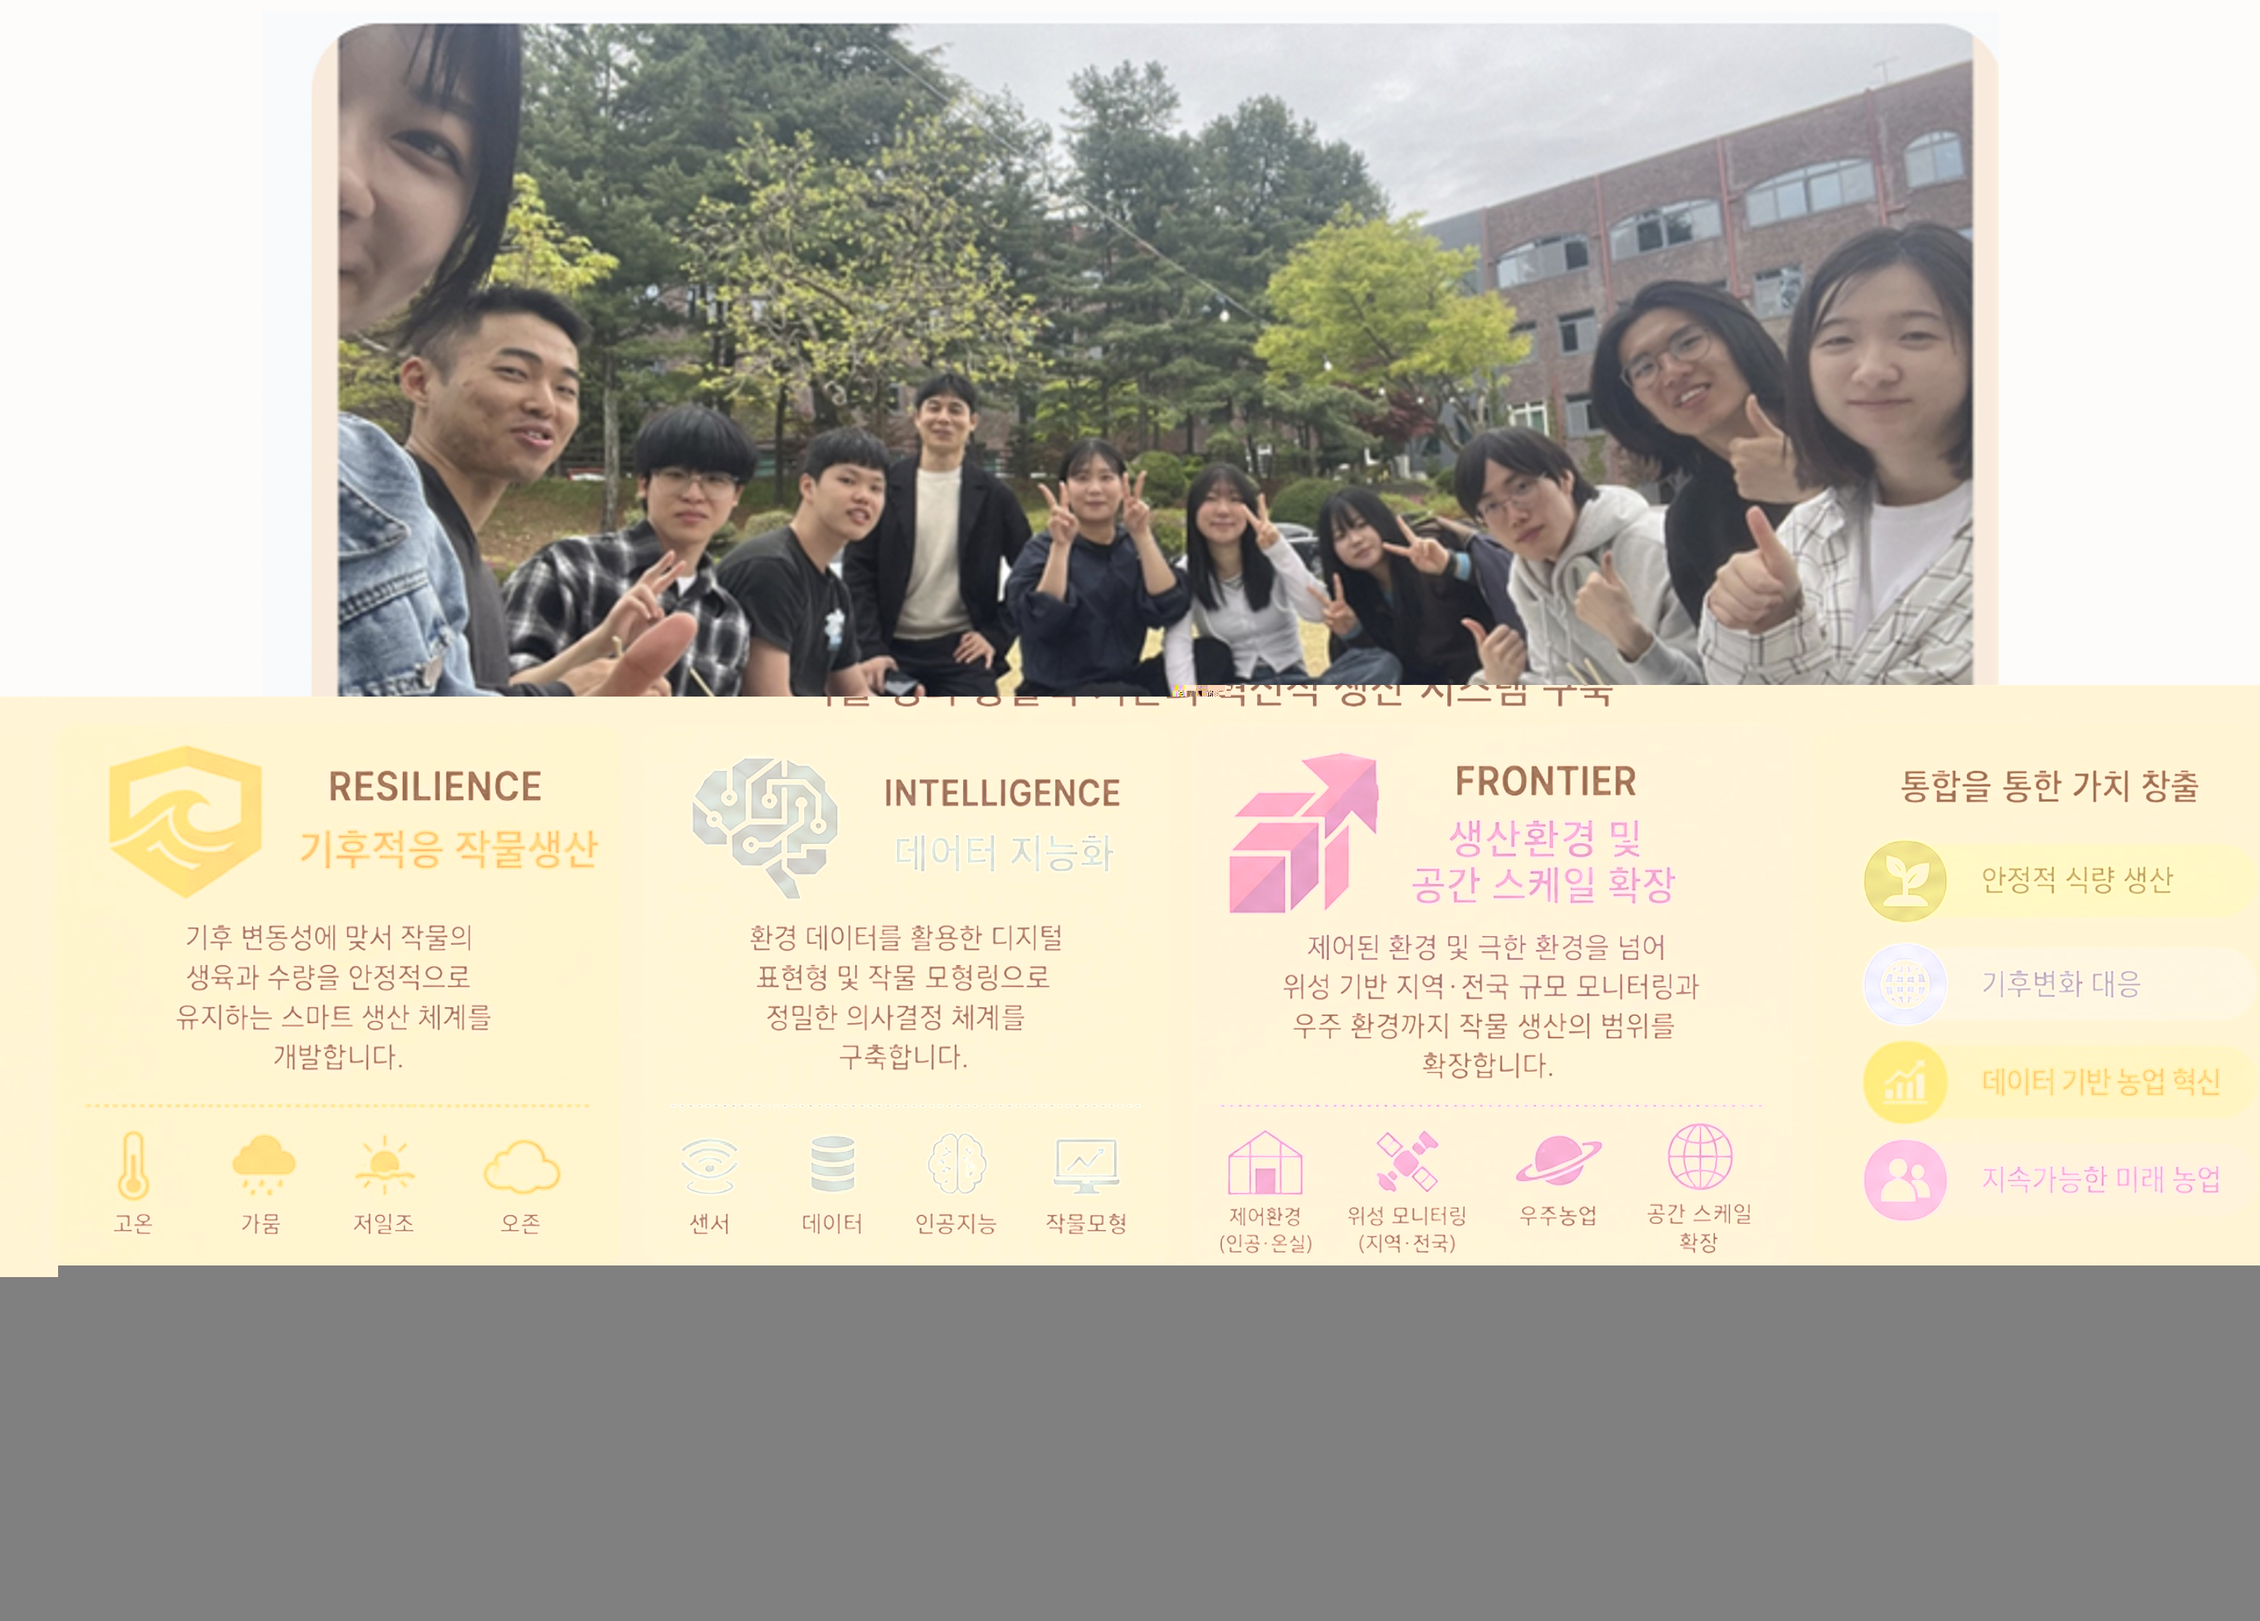
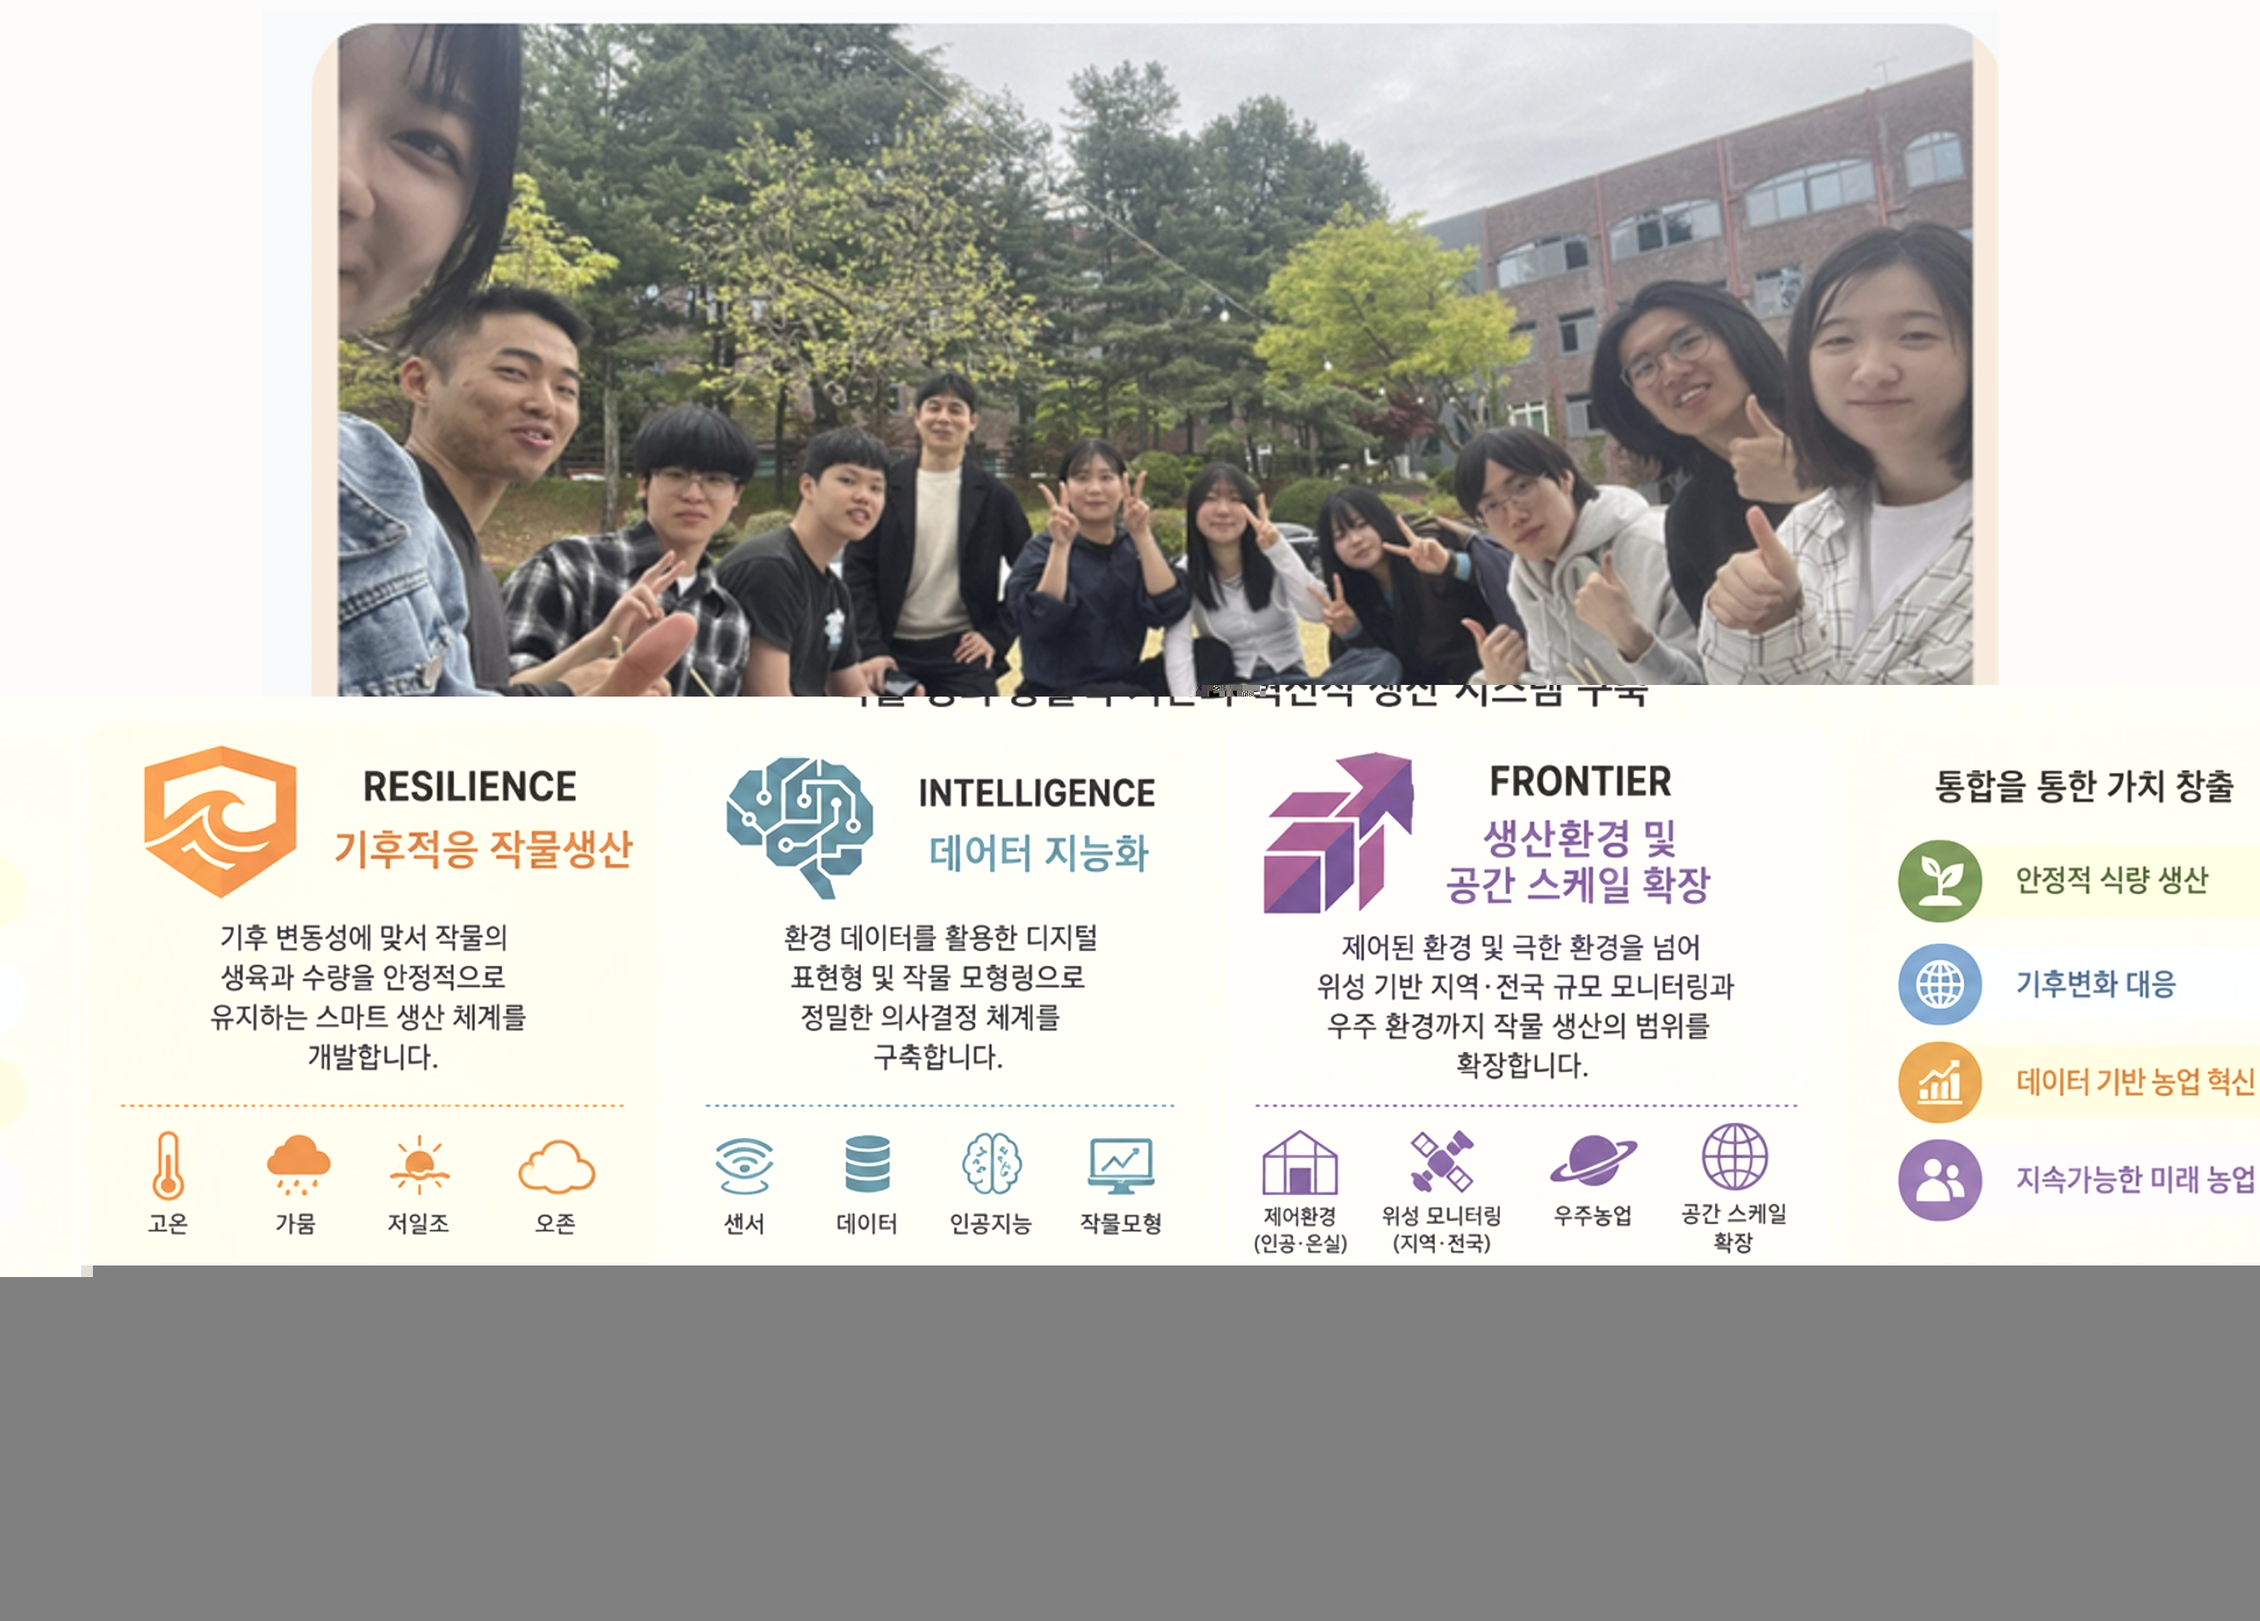
Preserve white background in revised Members graphic

diff --git a/_pages/members.md b/_pages/members.md
@@ -61,7 +61,7 @@ author_profile: false
 </style>
 
 <div class="cppl-members-hero" style="background:linear-gradient(135deg,#071a2b,#0d2b3b)!important;color:#f7fafb!important;">
-  <div class="cppl-members-hero-visual"><img data-members-hero-version="vision-team-2026" src="/images/members/cppl-members-vision-team-2026.jpg?v=1" width="3114" height="2234" loading="eager" decoding="async" alt="CPPL team and research vision for resilient, data-driven, and scalable crop production" style="width:100%;height:auto;max-height:none!important;object-fit:contain!important;display:block;border-radius:12px;"></div>
+  <div class="cppl-members-hero-visual"><img data-members-hero-version="vision-team-2026" src="/images/members/cppl-members-vision-team-2026.jpg?v=2" width="3114" height="2234" loading="eager" decoding="async" alt="CPPL team and research vision for resilient, data-driven, and scalable crop production" style="width:100%;height:auto;max-height:none!important;object-fit:contain!important;display:block;border-radius:12px;"></div>
   <div>
     <div class="cppl-eyebrow">Our Team</div>
     <h2>People at CPPL</h2>
